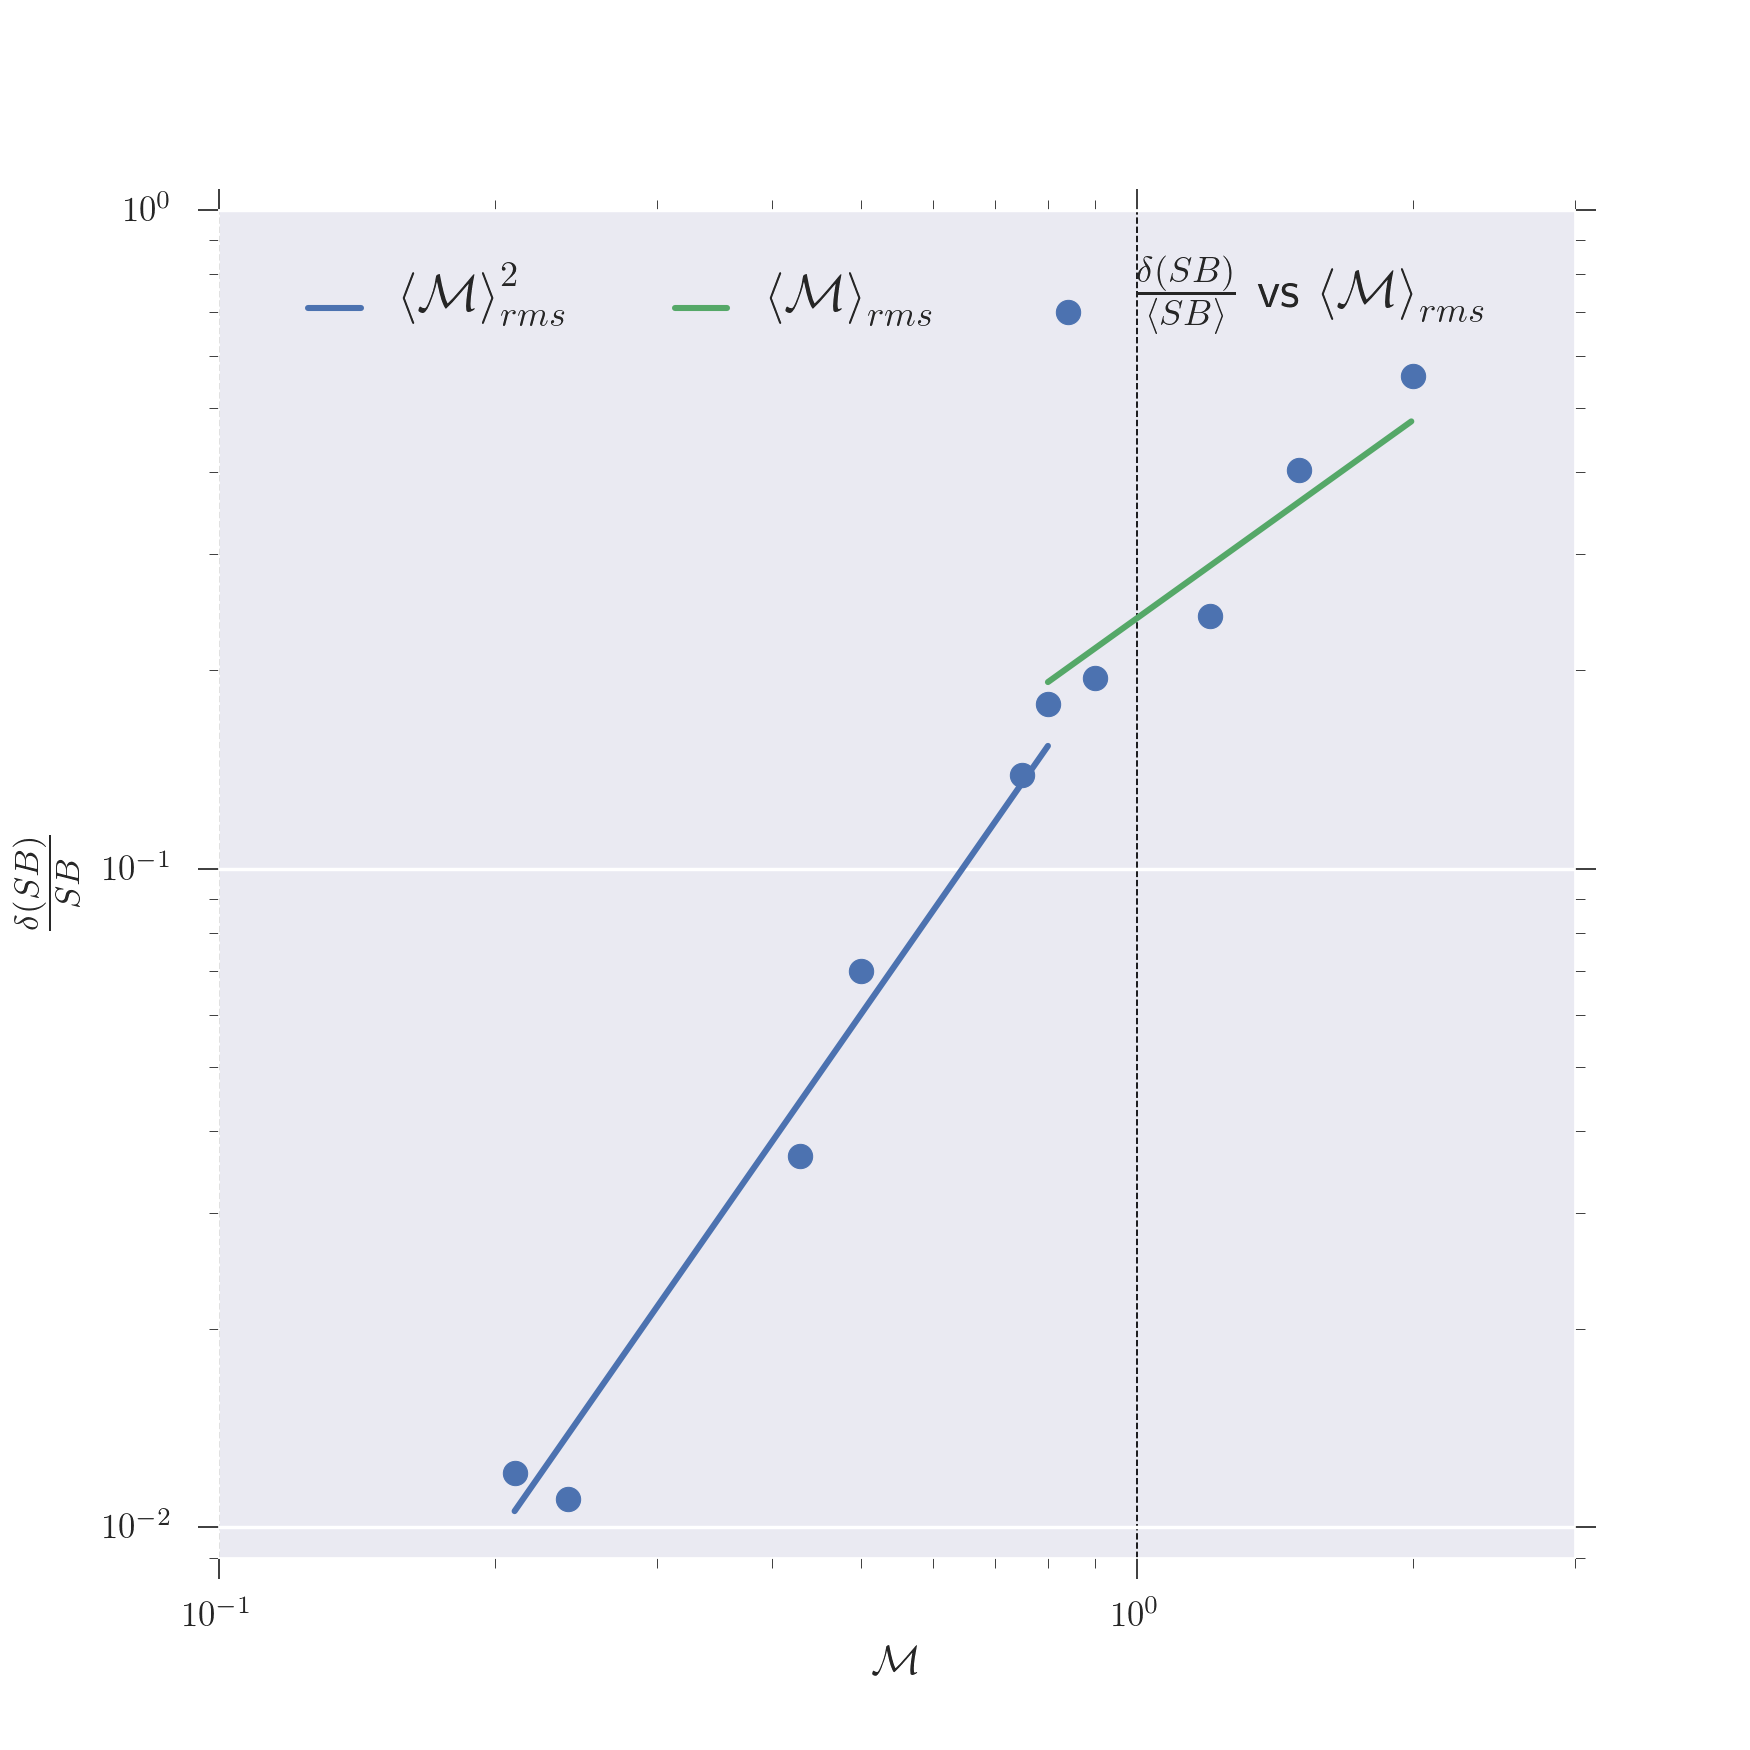
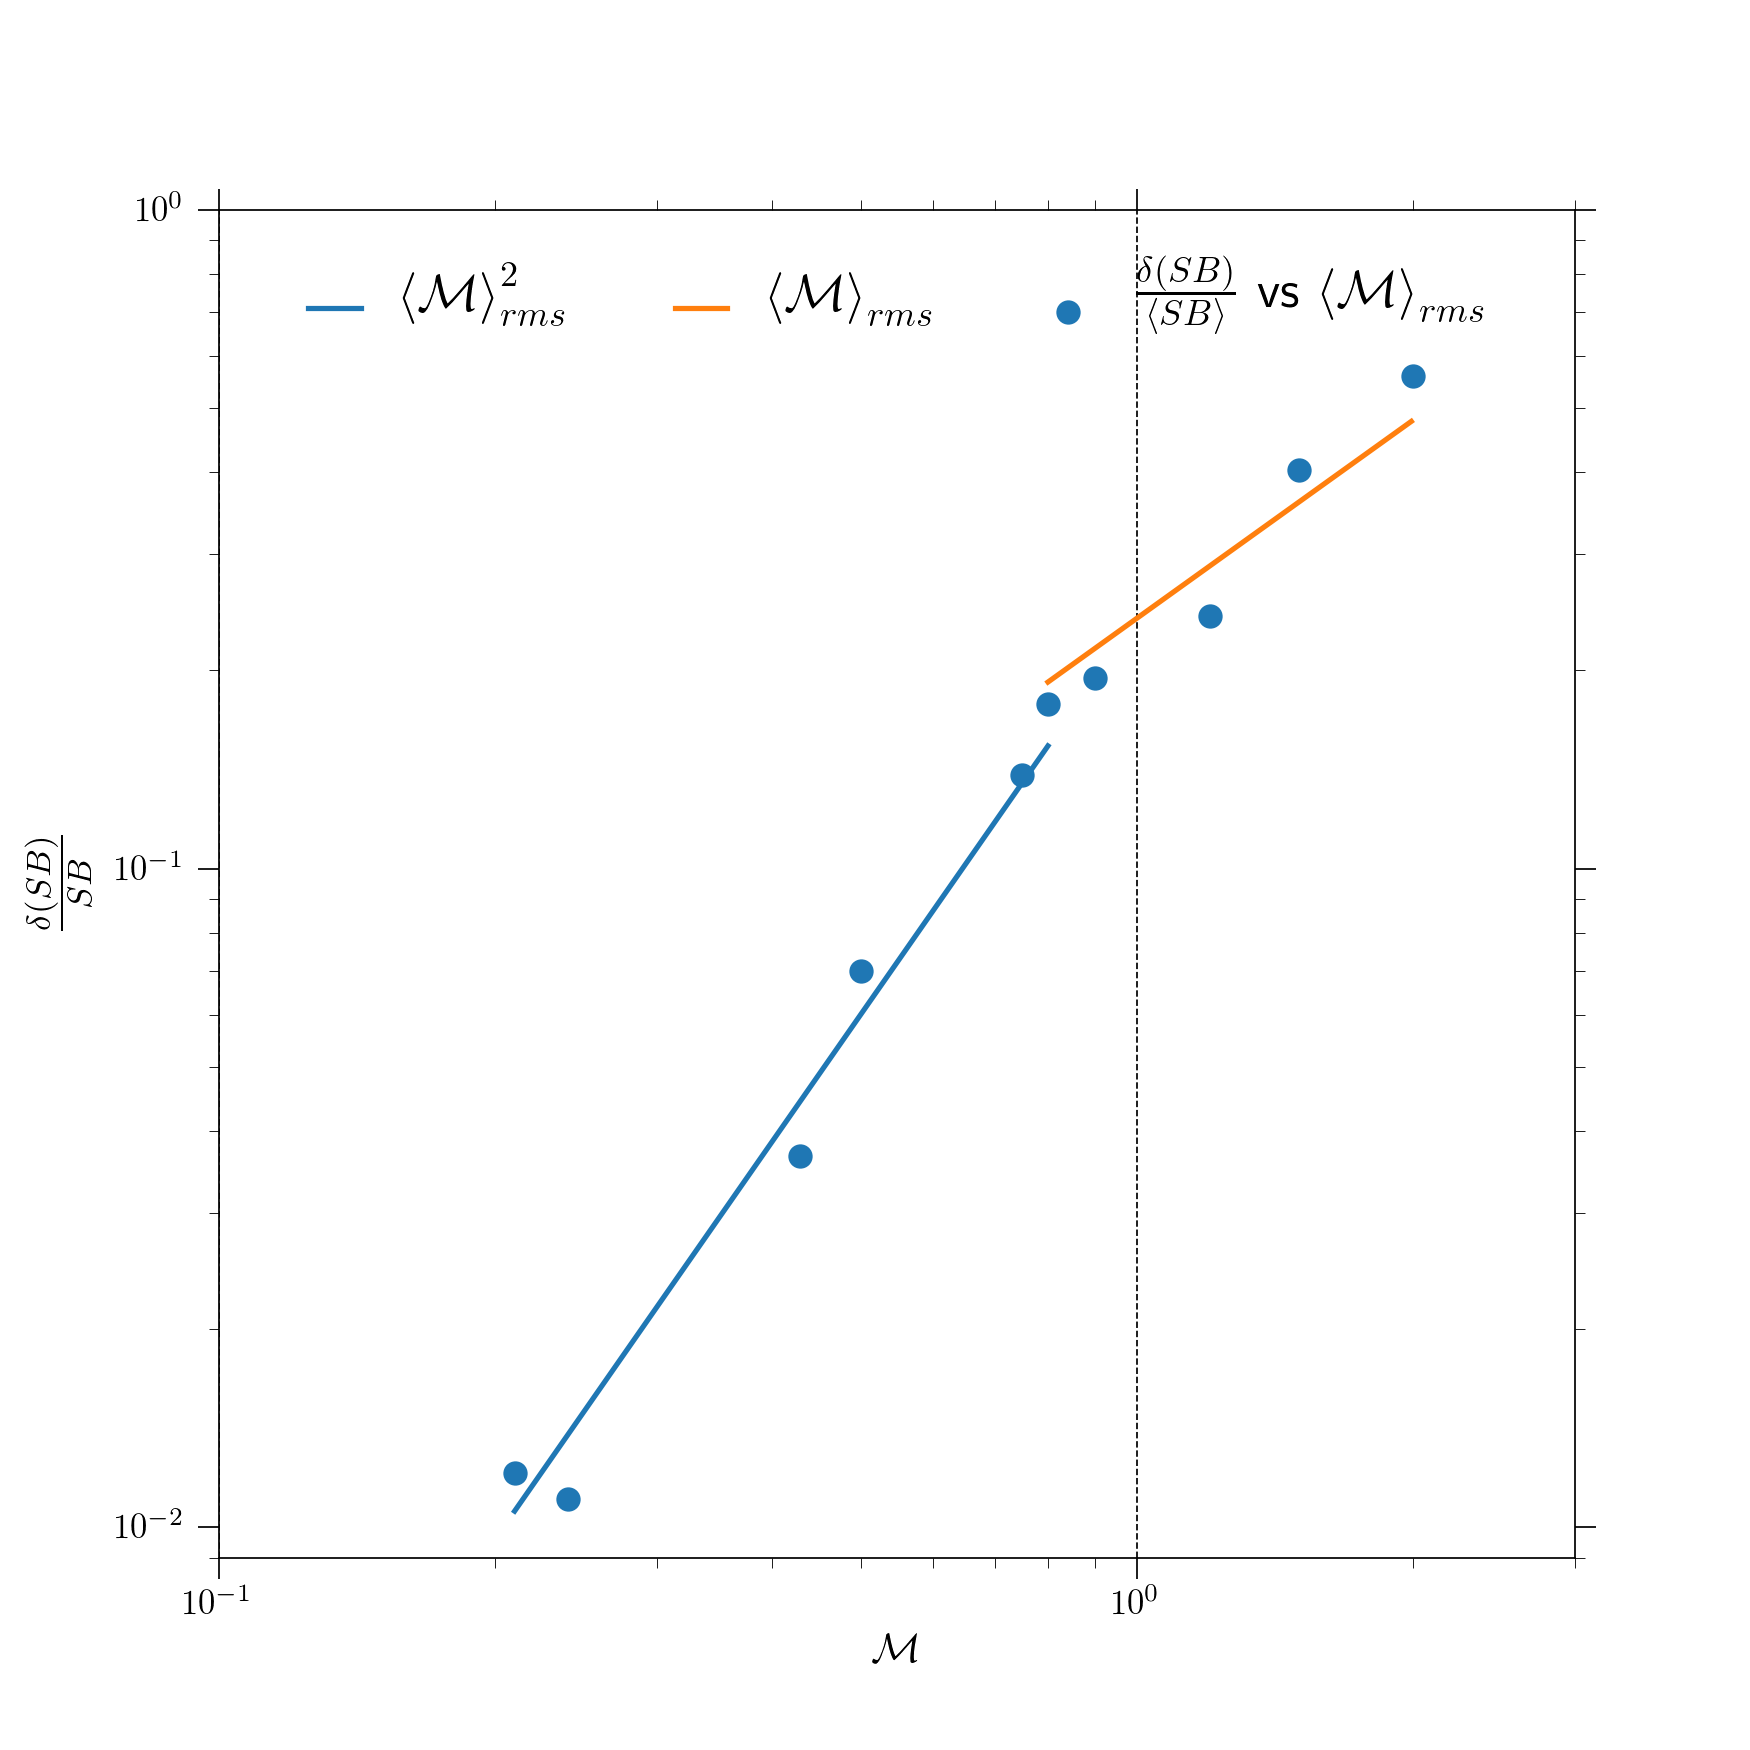
Edited plots

diff --git a/surface_brightness/sbk_rhok.py b/surface_brightness/sbk_rhok.py
@@ -1,0 +1,106 @@
+import numpy as np
+import matplotlib.pyplot as plt
+import matplotlib.colors as colors
+import time
+from scipy.optimize import curve_fit
+from scipy import stats
+import pylab as plot
+import pyPLUTO as pp
+
+#plt.style.use('classic')
+params = {'legend.fontsize':10.,
+          'legend.handlelength': 1.0}
+plt.rcParams['axes.linewidth'] = .5
+plt.rcParams['xtick.major.size'] = 8
+plt.rcParams['xtick.minor.size'] = 4
+plt.rcParams['ytick.major.size'] = 6
+plt.rcParams['ytick.minor.size'] = 3
+plt.rcParams['ytick.minor.size'] = 3
+plot.rcParams.update(params)
+
+plt.rc('text', usetex=True)
+
+#Compute how long the simulation takes
+start_time = time.time()
+
+colors=((230, 25, 75), (250, 190, 190) , (60, 180, 75), (255, 225, 25), (0, 130, 200), (245, 130, 48), (210, 245, 60), (145, 30, 180), (0, 128, 128), (240, 50, 230))
+colors=np.array(colors)/255.
+
+num_plots=4
+spectra = [None] * (num_plots*2)
+fit = [None] * (2)
+
+
+#Initialise the figure
+
+
+start=np.array((83, 100, 75, 35, 20, 18, 14, 5, 4, 2))
+amp=np.array((0.005, 0.005, 0.02, 0.02, 0.10, 0.1, 0.1, 0.9, 0.9, 2.5))
+mach=np.array((0.21, 0.24, 0.43, 0.50, 0.75, 0.8, 0.9, 1.2, 1.5, 2.0))
+time_step=0.2
+no_bins=200
+no_files=2
+sb_dev=np.zeros((start.size))
+sb_mean=np.zeros((start.size))
+for i in xrange(start.size):
+	filedir='/mnt/lustre/ug4/ugrajs/fiducial_runs/256/amp'+str(int(amp[i]*10000)).rjust(5,'0')+'/run1/'
+	data=np.fromfile(filedir+'sbs'+str(start[i]).rjust(4,'0')+'.dbl')
+	sb_dev[i]=np.std(data)
+	sb_mean[i]=np.average(data)
+
+fig, (ax1, ax2) = plt.subplots(2, 1, sharex=True)
+fig.set_size_inches(9, 7)
+
+start=np.array((100, 75, 20, 14, 5, 2))
+amp=np.array((0.005, 0.02, 0.1, 0.1, 0.9,2.5))
+mach=((0.24, 0.43, 0.76, 0.90, 1.25, 2.1))
+
+for i in xrange(start.size):
+	#if (i%3<1e-1):
+	if (i<5):
+		#j=int(i/3)
+		j=i
+		filedir='/mnt/lustre/ug4/ugrajs/fiducial_runs/256/amp'+str(int(amp[i]*10000)).rjust(5,'0')+'/run1/'
+		rhok=np.loadtxt(filedir+'Rhoks'+str(start[i]).rjust(4,'0')+'.txt')
+		sbk =np.loadtxt(filedir+'sbks'+str(start[i]).rjust(4,'0')+'.txt')
+
+		if (j<4):
+			spectra[2*j]=ax1.errorbar(rhok[:,0][1:-20], rhok[:,1][1:-20], fmt='d', color=colors[j], markeredgecolor=None, markersize=5.0, ecolor=None, capsize=None, barsabove=False, label=r'$\frac{|\rho_k|^2}{\left<\rho\right>^2}$, $\mathcal{M}=$'+str(mach[i]))
+			spectra[2*j+1]=ax1.errorbar(sbk[:,0][1:-20], sbk[:,1][1:-20]/sb_mean[i]**2., fmt='*', color=colors[j], markeredgecolor=None, markersize=5.0, ecolor=None, capsize=None, barsabove=False, label=r'$\frac{|SB_k|^2}{\left<SB\right>^2}$, $\mathcal{M}=$'+str(mach[i]))
+
+		ax2.errorbar(sbk[:,0][1:-20], rhok[:,1][1:-20]/sbk[:,1][1:-20]/sb_mean[i]**2./sbk[:,0][1:-20], fmt='o', color=colors[j], markeredgecolor=None, markersize=5.0, ecolor=None, capsize=None, barsabove=False, label= '$\mathcal{M}=$'+str(mach[i]))
+
+
+ax1.tick_params(axis='both', which='major', direction='out', length=6, width=0.5, top=True, right=True)
+ax1.tick_params(axis='both', which='minor', direction='out', length=3, width=0.25, top=True, right=True)
+ax1.grid(color='grey', linestyle='-', linewidth=0.2)
+spectra_legend=ax1.legend(handles=spectra, loc='lower left', bbox_to_anchor=(0.0, 0.0), ncol=4)
+ax1.add_artist(spectra_legend)
+spectra_legend.get_frame().set_alpha(0.)
+
+x=np.arange(10., 10**3., 1.)
+fit[0], = ax1.plot(x, 1e-3*x**(-5./3.), label=r'$k^{-5/3}$')
+fit[1], = ax1.plot(x, 8e-8*x**(-8./3.), label=r'$k^{-8/3}$')
+fit_legend=ax1.legend(handles=fit, loc='upper right', bbox_to_anchor=(1., 1.0), ncol=2)
+fit_legend.get_frame().set_alpha(0.)
+
+ax1.add_artist(fit_legend)
+ax1.set_yscale('log')
+ax1.set_xscale('log')
+ax1.set_ylabel(r'$\frac{|\rho_k|^2}{\left<\rho\right>^2}$, $\frac{|SB_k|^2}{\left<SB\right>^2}$', fontsize=12)
+ax1.set_xlim(1e1, 1e3)
+ax1.set_ylim(1e-20,1e-2)
+
+ax2.set_ylabel(r'$\left(\frac{|\rho_k|^2}{\left<\rho\right>^2}\right)/\left(k\frac{|SB_k|^2}{\left<SB\right>^2}\right)$', fontsize=12)
+ax2.set_xlabel('$k$', fontsize=12)
+ax2.set_ylim(1e8,5e10)
+ax2.tick_params(axis='both', which='major', direction='out', length=6, width=0.5, top=True, right=True)
+ax2.tick_params(axis='both', which='minor', direction='out', length=3, width=0.25, top=True, right=True)
+ax2.grid(color='grey', linestyle='-', linewidth=0.2)
+ax2.set_yscale('log')
+ax2.set_xscale('log')
+ax2.legend(loc='upper right', bbox_to_anchor=(1., 1.0), ncol=3, fancybox=True, framealpha=0.)
+
+#plt.show()
+plt.savefig('SBk_rhok.png', dpi=250)
+plt.close()

diff --git a/surface_brightness/sb_mach.py b/surface_brightness/sb_mach.py
@@ -69,59 +69,4 @@ ax.grid(color='black', linestyle='dashed', linewidth=.5, axis='x')
 plt.savefig('sb_mach.png', dpi=250)
 plt.close()
 
-fig, (ax1, ax2) = plt.subplots(2, 1, sharex=True)
-fig.set_size_inches(9, 7)
-
-start=np.array((100, 75, 20, 14, 5, 2))
-amp=np.array((0.005, 0.02, 0.1, 0.1, 0.9,2.5))
-mach=((0.24, 0.43, 0.76, 0.90, 1.25, 2.1))
-
-for i in xrange(start.size):
-	#if (i%3<1e-1):
-	if (i<5):
-		#j=int(i/3)
-		j=i
-		filedir='/mnt/lustre/ug4/ugrajs/fiducial_runs/256/amp'+str(int(amp[i]*10000)).rjust(5,'0')+'/run1/'
-		rhok=np.loadtxt(filedir+'Rhoks'+str(start[i]).rjust(4,'0')+'.txt')
-		sbk =np.loadtxt(filedir+'sbks'+str(start[i]).rjust(4,'0')+'.txt')
-
-		if (j<4):
-			spectra[2*j]=ax1.errorbar(rhok[:,0][1:-20], rhok[:,1][1:-20], fmt='d', color=colors[j], markeredgecolor=None, markersize=5.0, ecolor=None, capsize=None, barsabove=False, label=r'$\frac{|\rho_k|^2}{\left<\rho\right>^2}$, $\mathcal{M}=$'+str(mach[i]))
-			spectra[2*j+1]=ax1.errorbar(sbk[:,0][1:-20], sbk[:,1][1:-20]/sb_mean[i]**2., fmt='*', color=colors[j], markeredgecolor=None, markersize=5.0, ecolor=None, capsize=None, barsabove=False, label=r'$\frac{|SB_k|^2}{\left<SB\right>^2}$, $\mathcal{M}=$'+str(mach[i]))
-
-		ax2.errorbar(sbk[:,0][1:-20], rhok[:,1][1:-20]/sbk[:,1][1:-20]/sb_mean[i]**2./sbk[:,0][1:-20], fmt='o', color=colors[j], markeredgecolor=None, markersize=5.0, ecolor=None, capsize=None, barsabove=False, label= '$\mathcal{M}=$'+str(mach[i]))
-
-
-ax1.tick_params(axis='both', which='major', direction='out', length=6, width=0.5, top=True, right=True)
-ax1.tick_params(axis='both', which='minor', direction='out', length=3, width=0.25, top=True, right=True)
-ax1.grid(color='grey', linestyle='-', linewidth=0.2)
-spectra_legend=ax1.legend(handles=spectra, loc='lower left', bbox_to_anchor=(0.0, 0.0), ncol=4)
-ax1.add_artist(spectra_legend)
-spectra_legend.get_frame().set_alpha(0.)
-
-x=np.arange(10., 10**3., 1.)
-fit[0], = ax1.plot(x, 1e-3*x**(-5./3.), label=r'$k^{-5/3}$')
-fit[1], = ax1.plot(x, 8e-8*x**(-8./3.), label=r'$k^{-8/3}$')
-fit_legend=ax1.legend(handles=fit, loc='upper right', bbox_to_anchor=(1., 1.0), ncol=2)
-fit_legend.get_frame().set_alpha(0.)
-
-ax1.add_artist(fit_legend)
-ax1.set_yscale('log')
-ax1.set_xscale('log')
-ax1.set_ylabel(r'$\frac{|\rho_k|^2}{\left<\rho\right>^2}$, $\frac{|SB_k|^2}{\left<SB\right>^2}$', fontsize=12)
-ax1.set_xlim(1e1, 1e3)
-ax1.set_ylim(1e-20,1e-2)
-
-ax2.set_ylabel(r'$\left(\frac{|\rho_k|^2}{\left<\rho\right>^2}\right)/\left(k\frac{|SB_k|^2}{\left<SB\right>^2}\right)$', fontsize=12)
-ax2.set_xlabel('$k$', fontsize=12)
-ax2.set_ylim(1e8,5e10)
-ax2.tick_params(axis='both', which='major', direction='out', length=6, width=0.5, top=True, right=True)
-ax2.tick_params(axis='both', which='minor', direction='out', length=3, width=0.25, top=True, right=True)
-ax2.grid(color='grey', linestyle='-', linewidth=0.2)
-ax2.set_yscale('log')
-ax2.set_xscale('log')
-ax2.legend(loc='upper right', bbox_to_anchor=(1., 1.0), ncol=3, fancybox=True, framealpha=0.)
-
-#plt.show()
-plt.savefig('SBk_rhok.png', dpi=250)
 plt.close()

diff --git a/rho-mach/density_mach_256.py b/rho-mach/density_mach_256.py
@@ -1,7 +1,6 @@
 import numpy as np
 import matplotlib.pyplot as plt
 import pylab as plot
-import seaborn as sns
 
 #plt.style.use('classic')
 params = {'legend.fontsize':12,
@@ -28,7 +27,6 @@ fit = [None] * 2
 NUM_COLORS = 10
 colors=((230, 25, 75) , (60, 180, 75), (255, 225, 25), (0, 130, 200), (245, 130, 48), (145, 30, 180), (183, 58, 12), (240, 50, 230), (250, 190, 190), (6, 71, 24))
 colors=np.array(colors)/255.
-color_gray=np.array((180, 180, 180))/255.
 fig, ax = plt.subplots()
 for i1 in xrange(0,np.shape(amp)[0]):
 #	fig, ax = plt.subplots(1)
